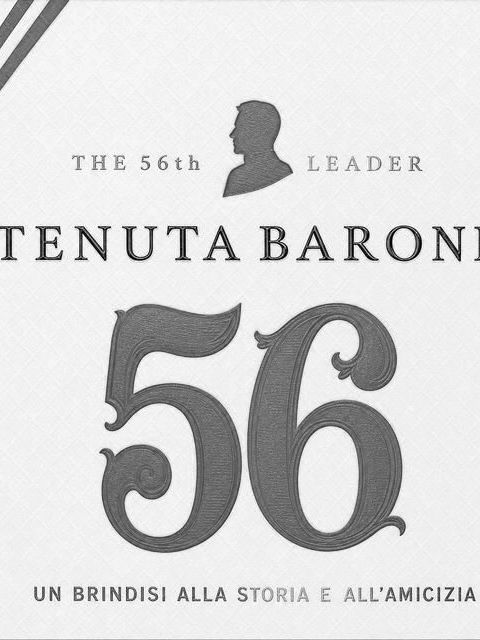
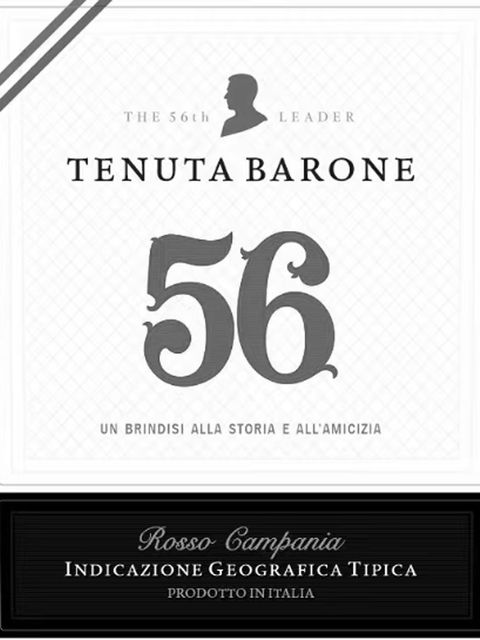
之前之所以画面抖动厉害，是因为目标图片识别区域的边缘部分没有纳入可识别区域，8th wall对于正方形只能识别中间部分，相对对于长方形识别稳定性更高

diff --git a/barone-video/src/index.html b/barone-video/src/index.html
@@ -100,15 +100,15 @@
     <a-light type="directional" intensity="0.5" position="1 1 1"></a-light>
     <a-light type="ambient" intensity="1"></a-light>
 
-    <!-- <xrextras-named-image-target name="barone-56-label">
+    <xrextras-named-image-target name="barone-56-label">
       <xrextras-target-video-fade video="#wine-label-video"></xrextras-target-video-fade>
-    </xrextras-named-image-target> -->
-    <xrextras-named-image-target name="cat-label">
+    </xrextras-named-image-target>
+    <!-- <xrextras-named-image-target name="cat-label">
       <xrextras-target-video-fade video="#wine-label-video"></xrextras-target-video-fade>
     </xrextras-named-image-target>
     <xrextras-named-image-target name="barone-castello-label">
       <xrextras-target-video-fade video="#wine-label-video"></xrextras-target-video-fade>
-    </xrextras-named-image-target>
+    </xrextras-named-image-target> -->
   </a-scene>
 </body>
 

diff --git a/barone-video/src/app.js b/barone-video/src/app.js
@@ -1,9 +1,10 @@
 const onxrloaded = () => {
   XR8.XrController.configure({
     imageTargetData: [
-      require('../image-targets/barone-56-label.json'),
-      require('../image-targets/barone-castello-label.json'),
-      require('../image-targets/cat-label.json')
+      require('../image-targets/barone-56-label.json')
+      // ,
+      // require('../image-targets/barone-castello-label.json'),
+      // require('../image-targets/cat-label.json')
 
     ],
   })
